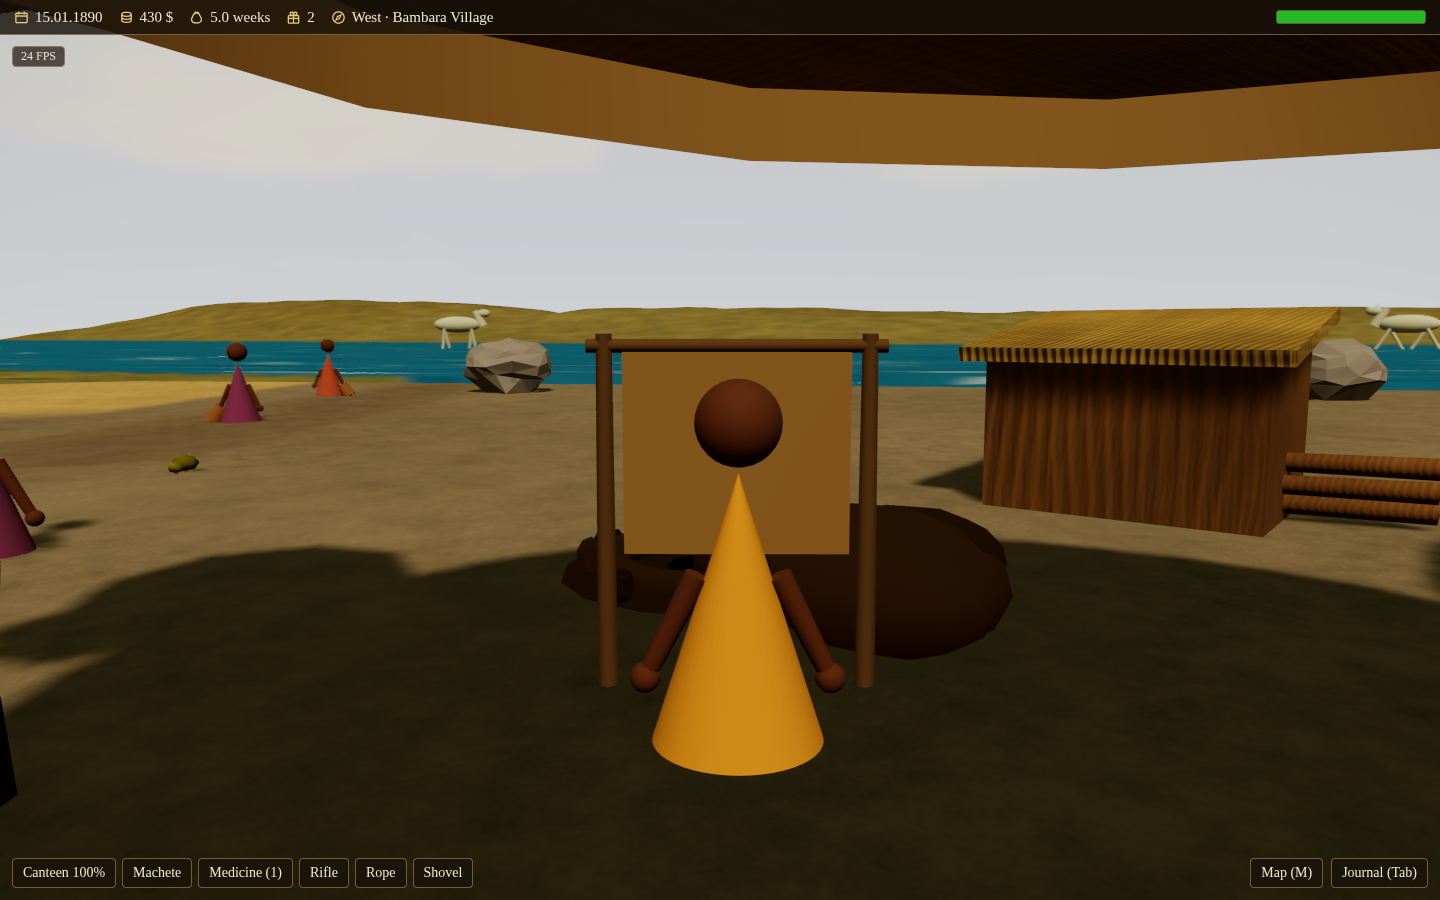
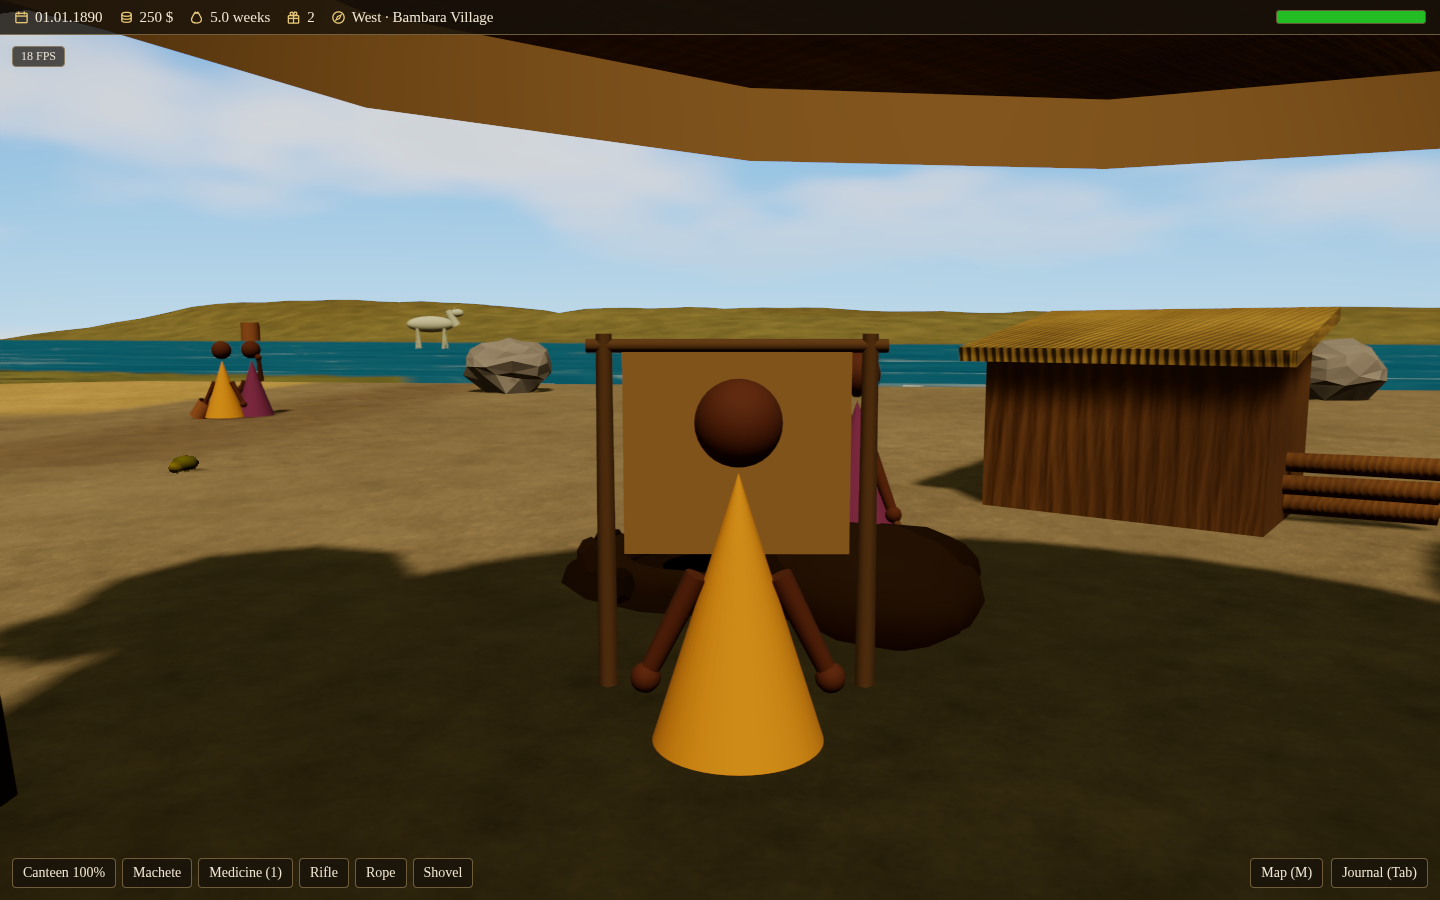
Open the carrier's jar so the water in it is visible
Both jars were one closed opaque cylinder and the full one was the empty one
moved onto the head, so the user could see no water and could not tell that
water was being fetched. The vessel is open at the mouth now and what stands
inside it tells the two apart: a dark hollow in the empty one, the river's own
sheen at the rim in the full one. The rim is flared past the waist because a
head-carried jar is seen at a shallow angle from the player's own eye height.

diff --git a/src/scenes/place/PlaceLife.tsx b/src/scenes/place/PlaceLife.tsx
@@ -26,6 +26,7 @@ import {
   type FootPlant,
 } from '../../render/fauna'
 import { CHILD_FIGURE_SCALE, FIGURE_LIMBS, TESSELLATION } from '../../render/figures'
+import { RIVER_WATER_TONES, WATER_METALNESS } from '../../render/waterAppearance'
 import { applyFigurePose, restingArmRefs, type FigureLimbs } from '../../render/figurePose'
 import {
   advanceGesture,
@@ -3009,18 +3010,16 @@ function ErrandVillagers({
             squat={(squats.current[i] ??= { current: 1 })}
             handProp={
               <>
-                <mesh
+                <group
                   ref={(el) => {
                     handJars.current[i] = el
                   }}
                   visible={false}
                   position={[0, -0.12, 0.04]}
                   rotation={[0, 0, 0.12]}
-                  castShadow
                 >
-                  <cylinderGeometry args={[0.12, 0.16, 0.32, 8]} />
-                  <meshStandardMaterial color="#8a5a30" roughness={0.9} />
-                </mesh>
+                  <Jar full={false} />
+                </group>
                 <group
                   name="digging-tool"
                   ref={(el) => {
@@ -3041,19 +3040,78 @@ function ErrandVillagers({
               </>
             }
           />
-          <mesh
+          <group
             ref={(el) => {
               headJars.current[i] = el
             }}
             visible={false}
             position={[0, 1.5, 0]}
-            castShadow
           >
-            <cylinderGeometry args={[0.12, 0.16, 0.32, 8]} />
-            <meshStandardMaterial color="#8a5a30" roughness={0.9} />
-          </mesh>
+            <Jar full />
+          </group>
         </group>
       ))}
+    </>
+  )
+}
+
+// --- The water carrier's jar (work-order 1087) -----------------------------
+//
+// BOTH JARS ARE THE SAME VESSEL, and it is OPEN. It used to be one closed opaque
+// cylinder in both states, and the full one was the empty one moved onto the
+// head: the user (06.09.2026) could see no water in it and therefore could not
+// tell that water was being fetched. The mouth is open now, and what stands
+// inside it is what tells the two apart at a glance — a dark hollow in the empty
+// one, the river's own tone at the rim in the full one.
+//
+// The rim is FLARED past the body's waist. A head-carried jar sits near the
+// player's own eye height, so its mouth is seen at a shallow angle; a wider
+// mouth is a wider ellipse, which is what makes the reading survive the
+// distance the player watches from.
+const JAR_RIM_R = 0.155
+const JAR_WAIST_R = 0.16
+const JAR_BASE_R = 0.13
+const JAR_HEIGHT = 0.32
+/** How far below the rim the water stands in a full jar, and the hollow in an
+ *  empty one. The full one is brim-full; the empty one is a shadow well down. */
+const JAR_WATER_DROP = 0.03
+const JAR_HOLLOW_DROP = 0.13
+
+function Jar({ full }: { full: boolean }) {
+  return (
+    <>
+      <mesh castShadow>
+        <cylinderGeometry args={[JAR_RIM_R, JAR_WAIST_R, JAR_HEIGHT, 14, 1, true]} />
+        {/* Double-sided: the inner wall is half of what an open mouth reads as. */}
+        <meshStandardMaterial color="#8a5a30" roughness={0.9} side={THREE.DoubleSide} />
+      </mesh>
+      {/* The base, so the vessel is a jar and not a tube. */}
+      <mesh position={[0, -JAR_HEIGHT / 2, 0]} rotation={[-Math.PI / 2, 0, 0]}>
+        <circleGeometry args={[JAR_BASE_R, 14]} />
+        <meshStandardMaterial color="#6b4423" roughness={1} side={THREE.DoubleSide} />
+      </mesh>
+      {/* What is IN it. */}
+      <mesh
+        position={[0, JAR_HEIGHT / 2 - (full ? JAR_WATER_DROP : JAR_HOLLOW_DROP), 0]}
+        rotation={[-Math.PI / 2, 0, 0]}
+      >
+        <circleGeometry args={[full ? JAR_RIM_R - 0.012 : JAR_WAIST_R - 0.02, 14]} />
+        {full ? (
+          // The river's own sheen, glossy like the water it came from, with a
+          // little light of its own so the disc still reads in the shade of the
+          // carrier's own head.
+          <meshStandardMaterial
+            color={RIVER_WATER_TONES.sheen}
+            roughness={0.14}
+            metalness={WATER_METALNESS}
+            emissive={RIVER_WATER_TONES.deep}
+            emissiveIntensity={0.35}
+            side={THREE.DoubleSide}
+          />
+        ) : (
+          <meshStandardMaterial color="#241a12" roughness={1} side={THREE.DoubleSide} />
+        )}
+      </mesh>
     </>
   )
 }
